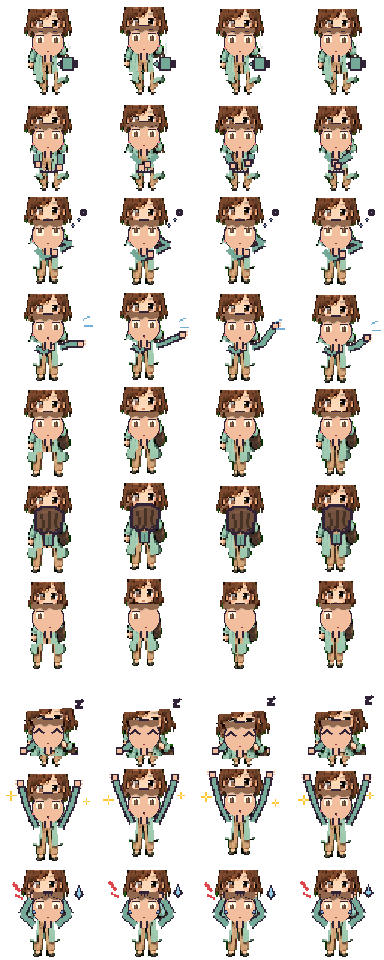
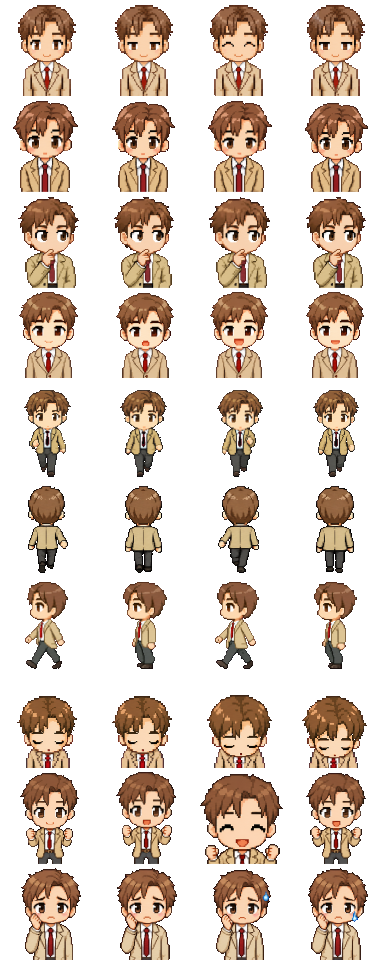
feat(pixel): 起動直後の活動状態反映と客キャラ刷新
- /api/animasにbusyサイドカー(run/animas/*.busy.json)を露出
- ページロード時、busyかつ15分以内に進捗のあるanimaはworking_scheduled/thinkingで初期化
  (「開いた直後は全員睡眠」問題の解消)
- customer_a/customer_bをcodex image_gen生成のパラパラ漫画シートに置換(旧式楕円顔を廃止)
- 客の合流点をanimaの手前58pxに変更(2倍スプライト同士の重なり解消)

diff --git a/server/static/workspace/pixel/modules/actors.js b/server/static/workspace/pixel/modules/actors.js
@@ -64,6 +64,22 @@ function tileKey(x, y) {
   return `${x},${y}`;
 }
 
+// Initial state for an actor at page load. The busy sidecar from /api/animas
+// reports in-progress work, so active animas start awake instead of waiting
+// for the next live event.
+function initialActorState(anima) {
+  const busy = anima?.busy;
+  if (busy?.is_busy) {
+    const progressAt = Date.parse(busy.last_progress_at || busy.busy_since || "");
+    const fresh = Number.isFinite(progressAt) && Date.now() - progressAt < 15 * 60 * 1000;
+    if (fresh) {
+      const lanes = (busy.lanes || []).join(",");
+      return lanes.includes("chat") ? "thinking" : "working_scheduled";
+    }
+  }
+  return anima?.status || "idle";
+}
+
 function buildBlocked(scene) {
   const blocked = new Set();
   for (const desk of Object.values(scene.desks)) {
@@ -613,7 +629,7 @@ export class ActorManager {
             backgroundSlots?.seated_render_offset_y ?? 12,
         },
       );
-      actor.setState(known.get(id)?.status || "idle");
+      actor.setState(isHuman ? "idle" : initialActorState(known.get(id)));
       this.actors.set(id, actor);
     }
   }

diff --git a/server/static/workspace/pixel/modules/director.js b/server/static/workspace/pixel/modules/director.js
@@ -292,8 +292,10 @@ export class Director {
         variant: Math.random() < 0.5 ? "customer_a" : "customer_b",
         fromX: customerX,
         fromY: customerY,
+        // Stop short of the anima so the two 2x sprites face each other
+        // instead of overlapping on the same tile.
         x: handoffPosition.x,
-        y: handoffPosition.y,
+        y: handoffPosition.y + 58,
         duration: 2.4,
       }),
       this.addEffect({

diff --git a/server/routes/animas.py b/server/routes/animas.py
@@ -34,6 +34,29 @@ def _read_appearance(anima_dir: Path) -> dict | None:
         return None
 
 
+def _read_busy_sidecar(name: str) -> dict | None:
+    """Read the IPC-independent busy marker written by the child process.
+
+    Lets clients (e.g. the pixel workspace) show in-progress work immediately
+    on page load instead of waiting for the next live event.
+    """
+    from core.paths import get_data_dir
+
+    path = get_data_dir() / "run" / "animas" / f"{name}.busy.json"
+    try:
+        data = json.loads(path.read_text(encoding="utf-8"))
+    except (OSError, json.JSONDecodeError):
+        return None
+    if not isinstance(data, dict) or not data.get("is_busy"):
+        return None
+    return {
+        "is_busy": True,
+        "busy_since": data.get("busy_since"),
+        "last_progress_at": data.get("last_progress_at"),
+        "lanes": data.get("lanes") or [],
+    }
+
+
 def create_animas_router() -> APIRouter:
     router = APIRouter()
 
@@ -95,6 +118,7 @@ def create_animas_router() -> APIRouter:
                 "pid": proc_status.get("pid"),
                 "uptime_sec": proc_status.get("uptime_sec"),
                 "last_busy_since": proc_status.get("last_busy_since"),
+                "busy": _read_busy_sidecar(name),
                 "appearance": appearance,
                 "supervisor": anima_supervisor,
                 "speciality": anima_speciality,
